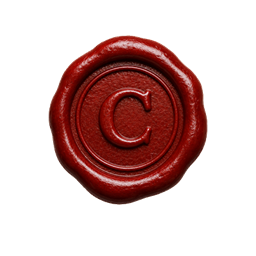
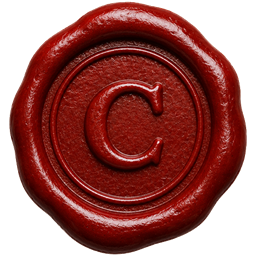
Crop the seal to the wax; it was 62% empty margin
At 54px it read as a red blob -- no rings, no letter. The cause was the asset,
not the CSS: the source frames the seal with wide empty margins, so the wax
occupied only 62.5% of the width. At width:54px the actual seal was drawing at
about 33px, and two concentric rings plus a serif C cannot survive that.

Re-cut from the original rather than upscaling the version already committed:
keyed at 700px, measured the alpha bounding box (434 x 462), and cropped a
square around it with a few pixels of air before resampling to 256. Every pixel
of the asset is wax now, so the display size is the seal size.

Sized 54 to 64px in the portfolio and 52 to 58px on the certificate stamp -- the
rings and the letter earn a little more room now that they are legible. 126 KB,
up from 60, because it is carrying real detail instead of empty margin.

diff --git a/FRONTEND/src/views/MyContracts.js b/FRONTEND/src/views/MyContracts.js
@@ -201,7 +201,7 @@ export function renderMyContracts() {
         /* 30px was a bullet point. The wax is struck now, so it gets the room to
            read as struck — the rim, the rings and the letter need the size.
            Still the tightest block on the page. */
-        .myc-none .seal{width:54px;height:54px;margin:0 auto 14px;display:block;object-fit:contain}
+        .myc-none .seal{width:64px;height:64px;margin:0 auto 15px;display:block;object-fit:contain}
         .myc-none h3{font-family:var(--font-display);font-size:25px;font-weight:400;margin:0 0 10px}
         .myc-none p{font-size:14.5px;line-height:1.6;color:var(--myc-ink-soft);max-width:520px;margin:0 auto}
         .myc-none p b{color:var(--myc-ink);font-weight:600}
@@ -356,7 +356,7 @@ export function renderMyContracts() {
  * "light" to any threshold loose enough to catch the background.
  */
 const SEAL = '<img class="seal" src="/wax-seal.png" alt="" aria-hidden="true"'
-    + ' width="54" height="54" decoding="async" />';
+    + ' width="64" height="64" decoding="async" />';
 
 export async function initMyContracts() {
     const root = document.querySelector('.myc');

diff --git a/FRONTEND/src/views/ActiveContracts.js b/FRONTEND/src/views/ActiveContracts.js
@@ -4622,7 +4622,7 @@ export function initActiveContracts() {
             const line = document.querySelector('#mb-wstep-3 .mb-sig .line');
             if (line) { line.innerHTML = ''; line.appendChild(wEl('span', 'nm', operatorName())); }
             const wax = document.querySelector('#mb-wstep-3 .mb-docwax');
-            if (wax) { wax.className = 'mb-docwax'; wax.innerHTML = ''; wax.appendChild(sealSvg(52)); }
+            if (wax) { wax.className = 'mb-docwax'; wax.innerHTML = ''; wax.appendChild(sealSvg(58)); }
 
             wiz.busy = false;
             wiz.contract = {
